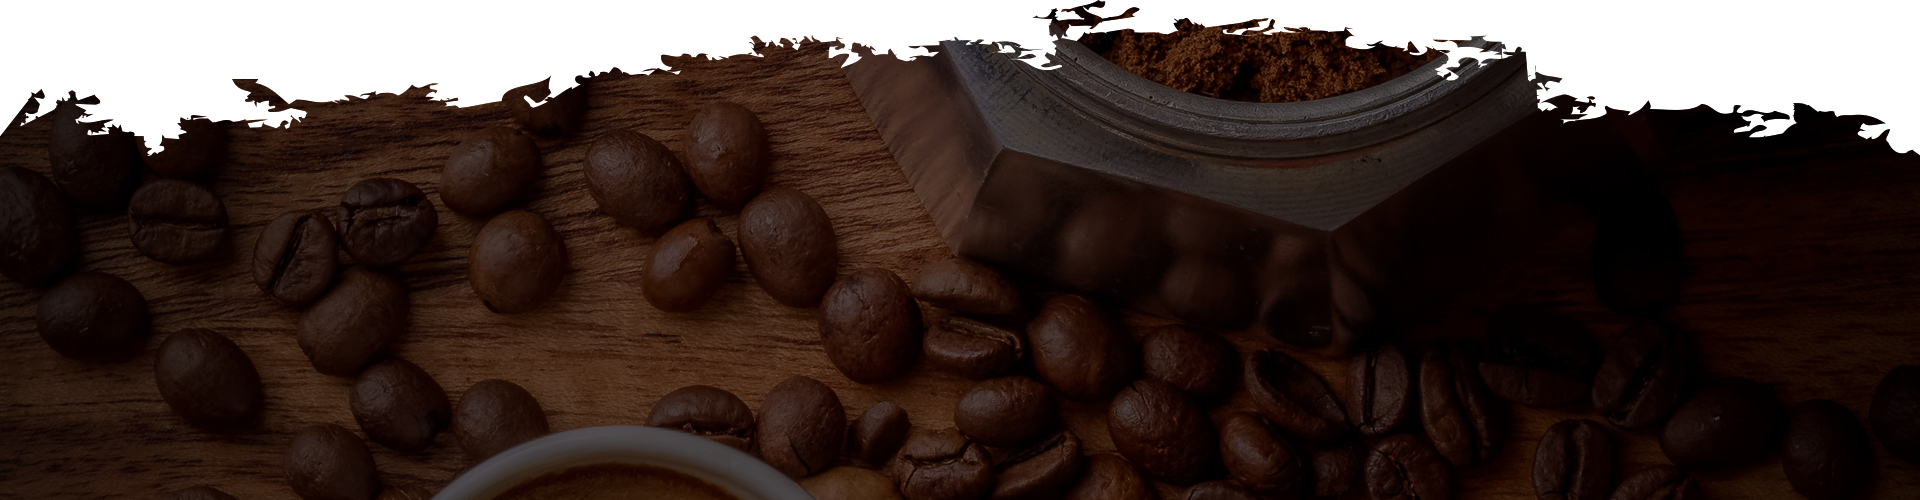
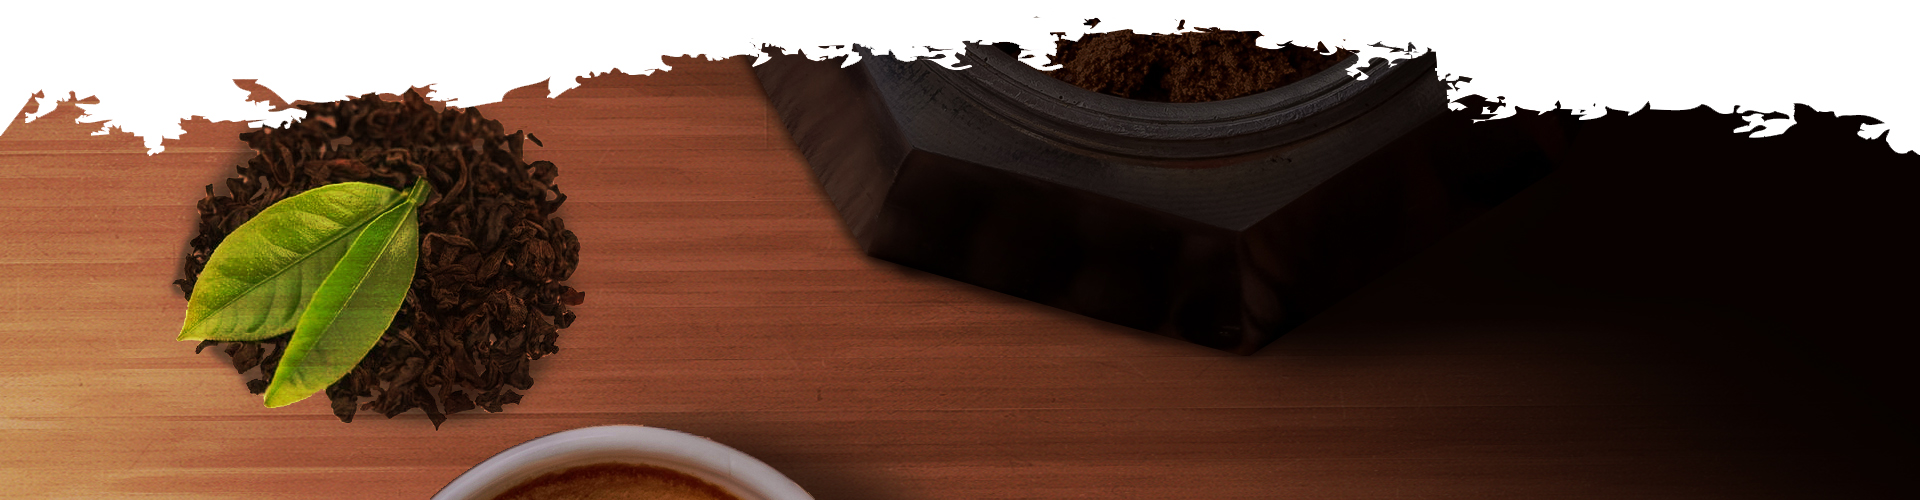
chaishots page and design done

diff --git a/css/main.css b/css/main.css
@@ -2283,7 +2283,7 @@ body.mobile-nav-active #mobile-nav-toggle {
 }
 
 .banner-area {
-  background: url(../img/header-bg.jpg) center;
+  background: url(../img/header-bg1.jpg) center;
   background-size: cover;
 }
 
@@ -2295,7 +2295,7 @@ body.mobile-nav-active #mobile-nav-toggle {
 
 @media (max-width: 768px) {
   .banner-area {
-    background: url(../img/header-bg.jpg);
+    background: url(../img/header-bg1.jpg);
     background-position: 50% 90% 50% 50%;
   }
 }

diff --git a/products.php b/products.php
@@ -1,0 +1,187 @@
+	<!DOCTYPE html>
+	<html lang="zxx" class="no-js">
+	<head>
+		<!-- Mobile Specific Meta -->
+		<meta name="viewport" content="width=device-width, initial-scale=1, shrink-to-fit=no">
+		<!-- Favicon-->
+		<link rel="shortcut icon" href="img/elements/fav.png">
+		<!-- Author Meta -->
+		<meta name="author" content="colorlib">
+		<!-- Meta Description -->
+		<meta name="description" content="">
+		<!-- Meta Keyword -->
+		<meta name="keywords" content="">
+		<!-- meta character set -->
+		<meta charset="UTF-8">
+		<!-- Site Title -->
+		<title>Coffee</title>
+
+		<link href="https://fonts.googleapis.com/css?family=Poppins:100,200,400,300,500,600,700" rel="stylesheet"> 
+			<!--
+			CSS
+			============================================= -->
+			<link rel="stylesheet" href="css/linearicons.css">
+			<link rel="stylesheet" href="css/owl.carousel.css">
+			<link rel="stylesheet" href="css/font-awesome.min.css">
+			<link rel="stylesheet" href="css/nice-select.css">			
+			<link rel="stylesheet" href="css/magnific-popup.css">
+			<link rel="stylesheet" href="css/bootstrap.css">
+			<link rel="stylesheet" href="css/main.css">
+		</head>
+		<body>
+
+			<?php include 'includes/nav.php'; ?>
+			<!-- Start banner Area -->
+			<!-- <section class="generic-banner">				
+				<div class="container">
+					<div class="row height align-items-center justify-content-center">
+						<div class="col-lg-10">
+							<div class="generic-banner-content">
+								<h2 class="text-white">Reach Our Store</h2>
+								<p class="text-white">Hi Say Hello – +91-92051-35137
+
+Ping Us - chaishots@gmail.com
+</p>
+							</div>
+						</div>
+					</div>
+				</div>
+			</section>	 -->	
+			<!-- End banner Area -->
+			<!-- Start menu Area -->
+			<section class="menu-area section-gap" id="coffee">
+				<div class="container">
+					<div class="row d-flex justify-content-center">
+						<div class="menu-content pb-60 col-lg-10">
+							<div class="title text-center">
+								<h1 class="mb-10">What kind of Products we serve for you</h1>
+								<p>Who are in extremely love with eco friendly system.</p>
+							</div>
+						</div>
+					</div>						
+					<div class="row">
+						<div class="col-lg-4">
+							<div class="single-menu">
+								<div class="title-div justify-content-between d-flex">
+									<h4>Cappuccino</h4>
+									<p class="price float-right">
+										$49
+									</p>
+								</div>
+								<p>
+									Usage of the Internet is becoming more common due to rapid advance.
+								</p>								
+							</div>
+						</div>
+						<div class="col-lg-4">
+							<div class="single-menu">
+								<div class="title-div justify-content-between d-flex">
+									<h4>Americano</h4>
+									<p class="price float-right">
+										$49
+									</p>
+								</div>
+								<p>
+									Usage of the Internet is becoming more common due to rapid advance.
+								</p>								
+							</div>
+						</div>
+						<div class="col-lg-4">
+							<div class="single-menu">
+								<div class="title-div justify-content-between d-flex">
+									<h4>Espresso</h4>
+									<p class="price float-right">
+										$49
+									</p>
+								</div>
+								<p>
+									Usage of the Internet is becoming more common due to rapid advance.
+								</p>								
+							</div>
+						</div>	
+						<div class="col-lg-4">
+							<div class="single-menu">
+								<div class="title-div justify-content-between d-flex">
+									<h4>Macchiato</h4>
+									<p class="price float-right">
+										$49
+									</p>
+								</div>
+								<p>
+									Usage of the Internet is becoming more common due to rapid advance.
+								</p>								
+							</div>
+						</div>
+						<div class="col-lg-4">
+							<div class="single-menu">
+								<div class="title-div justify-content-between d-flex">
+									<h4>Mocha</h4>
+									<p class="price float-right">
+										$49
+									</p>
+								</div>
+								<p>
+									Usage of the Internet is becoming more common due to rapid advance.
+								</p>								
+							</div>
+						</div>
+						<div class="col-lg-4">
+							<div class="single-menu">
+								<div class="title-div justify-content-between d-flex">
+									<h4>Coffee Latte</h4>
+									<p class="price float-right">
+										$49
+									</p>
+								</div>
+								<p>
+									Usage of the Internet is becoming more common due to rapid advance.
+								</p>								
+							</div>
+						</div>
+						<div class="col-lg-4">
+							<div class="single-menu">
+								<div class="title-div justify-content-between d-flex">
+									<h4>Piccolo Latte</h4>
+									<p class="price float-right">
+										$49
+									</p>
+								</div>
+								<p>
+									Usage of the Internet is becoming more common due to rapid advance.
+								</p>								
+							</div>
+						</div>
+						<div class="col-lg-4">
+							<div class="single-menu">
+								<div class="title-div justify-content-between d-flex">
+									<h4>Ristretto</h4>
+									<p class="price float-right">
+										$49
+									</p>
+								</div>
+								<p>
+									Usage of the Internet is becoming more common due to rapid advance.
+								</p>								
+							</div>
+						</div>
+						<div class="col-lg-4">
+							<div class="single-menu">
+								<div class="title-div justify-content-between d-flex">
+									<h4>Affogato</h4>
+									<p class="price float-right">
+										$49
+									</p>
+								</div>
+								<p>
+									Usage of the Internet is becoming more common due to rapid advance.
+								</p>								
+							</div>
+						</div>															
+					</div>
+				</div>	
+			</section>
+			<!-- End menu Area -->
+			<!-- End Align Area -->
+			<?php include 'includes/footer.php'; ?>	
+		</body>
+	</html>

diff --git a/team.php b/team.php
@@ -51,7 +51,7 @@
 						<h3 class="mb-30">Mr.Tan</h3>
 						<div class="row">
 							<div class="col-md-3">
-								<img src="img/elements/d.jpg" alt="" class="img-fluid">
+								<img src="img/founder.jpeg" alt="" class="img-fluid">
 							</div>
 							<div class="col-md-9 mt-sm-20" style="text-align:justify;">
 								<p>Tanay Agarwal is responsible for defining Chaishots strategy and brand promise and for aligning various functions to deliver successfully on these. Tanay has a background in Engineering and Technology from BITS Pilani and Communication Marketing from IMT Ghaziabad.</p>
@@ -64,24 +64,6 @@ Tanay firmly believes in bringing the knowledge to the table and he is very pass
 									<a href="https://www.instagram.com/chaishots"><i class="fa fa-instagram"></i></a>
 									<a href="#"><i class="fa fa-google-plus"></i></a>
 </div>
-							</div>
-						</div>
-					</div>
-					<div class="section-top-border text-right">
-						<h3 class="mb-30">Mr. Xyz</h3>
-						<div class="row">
-							<div class="col-md-9" style="text-align:justify;">
-								<p class="text-right">Over time, even the most sophisticated, memory packed computer can begin to run slow if we don’t do something to prevent it. The reason why has less to do with how computers are made and how they age and more to do with the way we use them. You see, all of the daily tasks that we do on our PC from running programs to downloading and deleting software can make our computer sluggish. To keep this from happening, you need to understand the reasons why your PC is getting slower and do something to keep your PC running at its best. You can do this through regular maintenance and PC performance optimization programs</p>
-								<p class="text-right">Before we discuss all of the things that could be affecting your PC’s performance, let’s talk a little about what symptoms</p>
-								<div class="footer-social d-flex align-items-center">
-									<a href="https://www.facebook.com/chaishots"><i class="fa fa-facebook"></i></a>
-									<a href="https://www.twitter.com/chaishots"><i class="fa fa-twitter"></i></a>
-									<a href="https://www.instagram.com/chaishots"><i class="fa fa-instagram"></i></a>
-									<a href="#"><i class="fa fa-google-plus"></i></a>
-								</div>
-							</div>
-							<div class="col-md-3">
-								<img src="img/elements/d.jpg" alt="" class="img-fluid">
 							</div>
 						</div>
 					</div>

diff --git a/index.php b/index.php
@@ -38,12 +38,6 @@
 				  			<div class="col-lg-8 col-sm-4 col-8 header-top-right no-padding">
 				  				<ul>
 				  					<li>
-				  						Mon-Fri: 8am to 2pm
-				  					</li>
-				  					<li>
-				  						Sat-Sun: 11am to 4pm
-				  					</li>
-				  					<li>
 				  						<a href="tel:(012) 6985 236 7512">+91-92051-35137</a>
 				  					</li>				  					
 				  				</ul>
@@ -128,7 +122,7 @@
 					<div class="row d-flex justify-content-center">
 						<div class="menu-content pb-60 col-lg-10">
 							<div class="title text-center">
-								<h1 class="mb-10">What kind of Coffee we serve for you</h1>
+								<h1 class="mb-10">What kind of Products we serve for you</h1>
 								<p>Who are in extremely love with eco friendly system.</p>
 							</div>
 						</div>
@@ -253,16 +247,19 @@
 						</div>															
 					</div>
 				</div>	
+				<div align="center">
+					<a href="products.php" class="genric-btn primary circle">Explore more Products<span class="lnr lnr-arrow-right"></span></a>
+				</div>
 			</section>
 			<!-- End menu Area -->
 			
-			<!-- Start gallery Area -->
+			<!-- Start gallery Area --> 
 			<section class="gallery-area section-gap" id="gallery">
 				<div class="container">
 					<div class="row d-flex justify-content-center">
 						<div class="menu-content pb-60 col-lg-10">
 							<div class="title text-center">
-								<h1 class="mb-10">What kind of Coffee we serve for you</h1>
+								<h1 class="mb-10">What kind of Products we serve for you</h1>
 								<p>Who are in extremely love with eco friendly system.</p>
 							</div>
 						</div>
@@ -371,7 +368,7 @@
 					<div class="row d-flex justify-content-center">
 						<div class="menu-content pb-60 col-lg-10">
 							<div class="title text-center">
-								<h1 class="mb-10">What kind of ChaiShots we serve for you</h1>
+								<h1 class="mb-10">What kind of Products we serve for you</h1>
 								<p>Who are in extremely love with eco friendly system.</p>
 							</div>
 						</div>

diff --git a/stores.php b/stores.php
@@ -54,19 +54,22 @@ Ping Us - chaishots@gmail.com
 						<div class="row">
 							<div class="col-md-4">
 								<div class="single-defination">
-									<h4 class="mb-20">Store 1</h4>
+									<img src="img/store.png"/>
+									<h4 class="mb-20">ChaiShots Store A</h4>
 									<p>Shop 27-A, DLF Tower A, Jasola, New Delhi </p>
 								</div>
 							</div>
 							<div class="col-md-4">
 								<div class="single-defination">
-									<h4 class="mb-20">Store 2</h4>
+									<img src="img/store.png"/>
+									<h4 class="mb-20">ChaiShots Store B</h4>
 									<p>Shop 5, Corner Market, Maharshi Dayanand Marg, Malviya Nagar, New Delhi</p>
 								</div>
 							</div>
 							<div class="col-md-4">
 								<div class="single-defination">
-									<h4 class="mb-20">Store 3</h4>
+									<img src="img/store.png"/>
+									<h4 class="mb-20">ChaiShots Store C</h4>
 									<p>A-71, Ground Floor, Main Road, Kalkaji, New Delhi</p>
 								</div>
 							</div>

diff --git a/includes/nav.php b/includes/nav.php
@@ -5,12 +5,6 @@
 				  			<div class="col-lg-8 col-sm-4 col-8 header-top-right no-padding">
 				  				<ul>
 				  					<li>
-				  						Mon-Fri: 8am to 2pm
-				  					</li>
-				  					<li>
-				  						Sat-Sun: 11am to 4pm
-				  					</li>
-				  					<li>
 				  						<a href="tel:(012) 6985 236 7512">+91-92051-35137</a>
 				  					</li>				  					
 				  				</ul>
